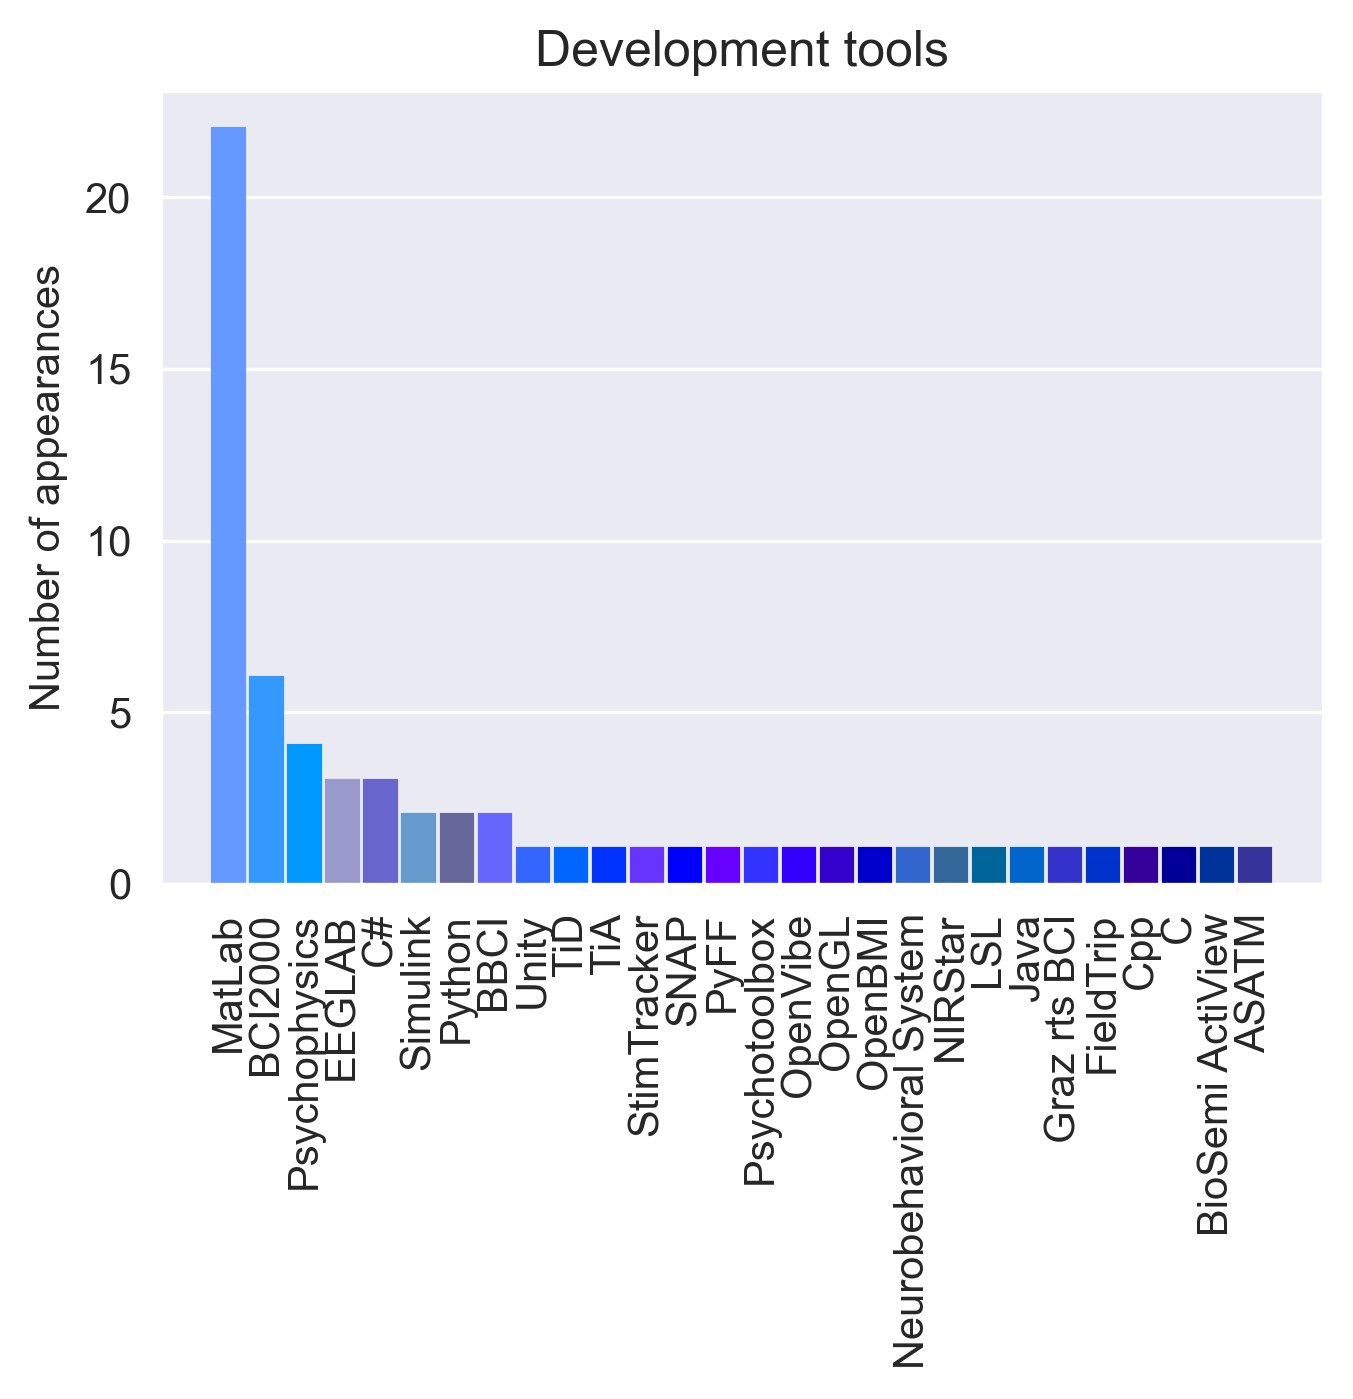
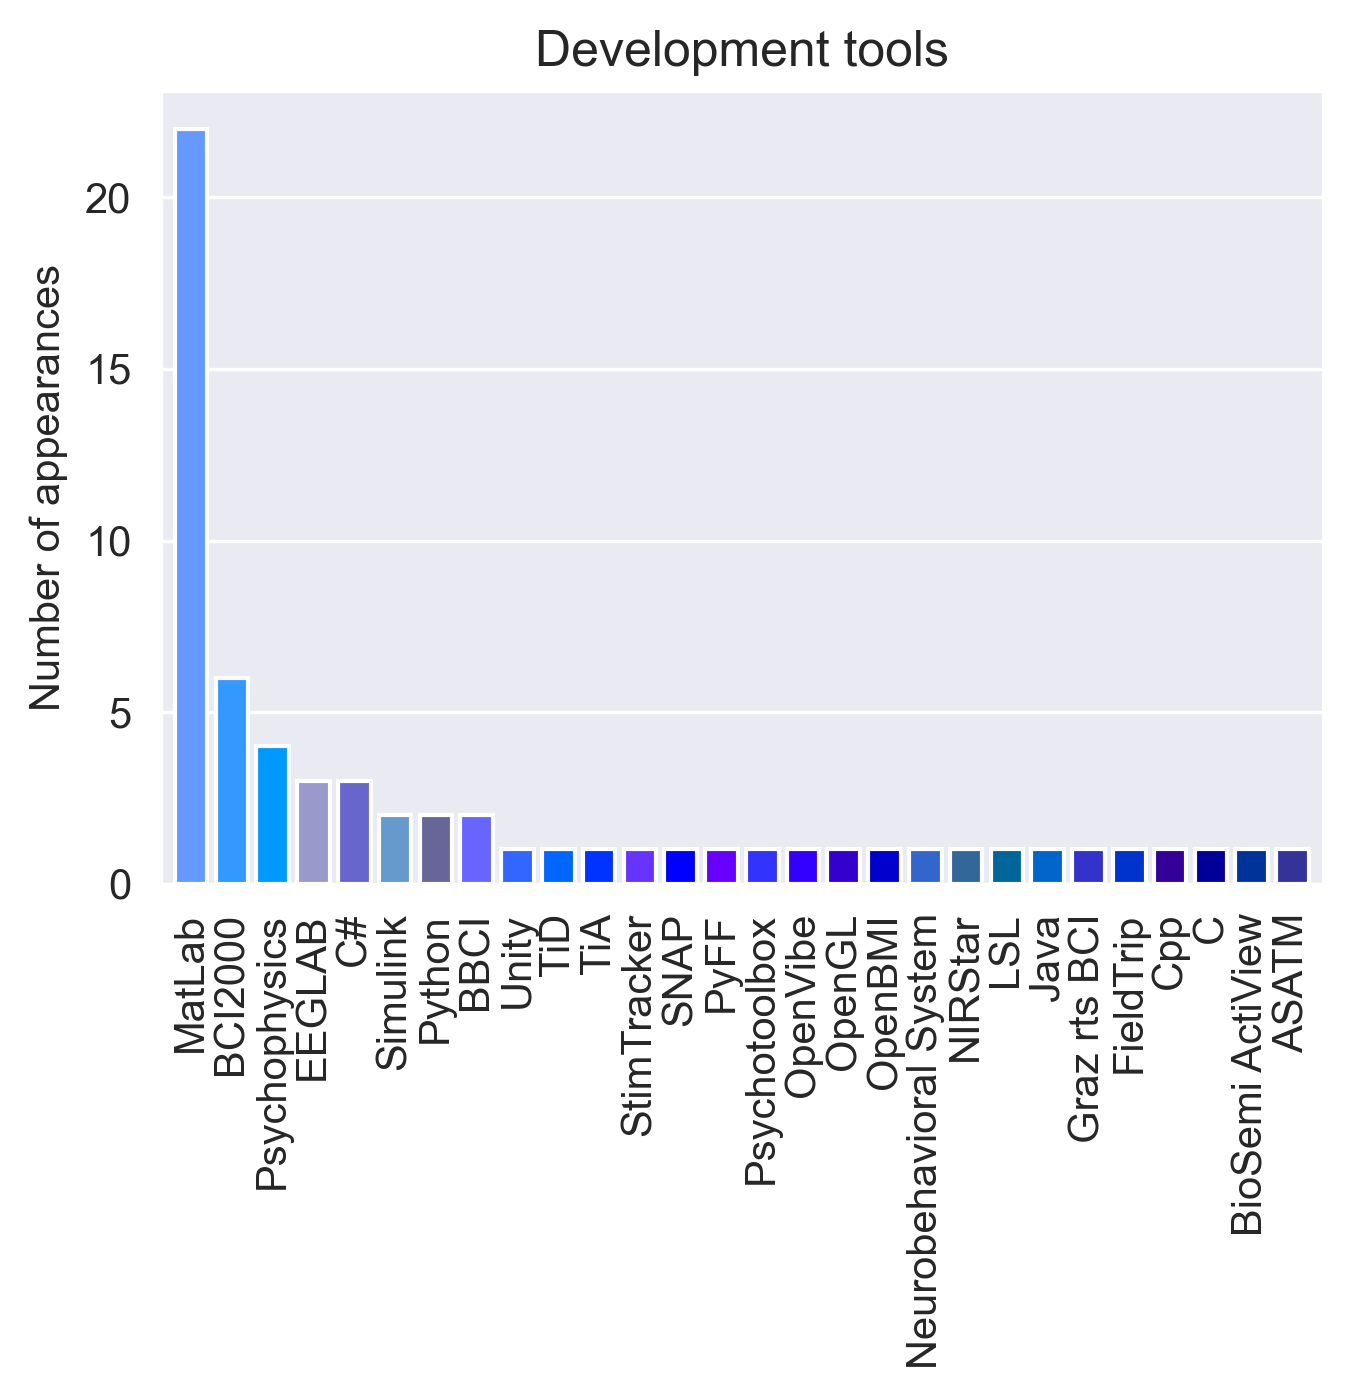
Add graph per input type

Changed region(s): [[0.1242, 0.0922, 0.9623, 0.9836]]

diff --git a/dataframe_stats.py b/dataframe_stats.py
@@ -15,6 +15,7 @@ import os
 import random
 import itertools
 import re
+import math
 
 
 # execfile("ColorMap.py")
@@ -282,14 +283,14 @@ plt.bar(names_soft,
         total_soft,
         alpha = 1,
         color = bar_colors,
-        edgecolor = bar_colors,
+        edgecolor = "white",
         )
 plt.title("Development tools")
 plt.ylabel("Number of appearances")
 plt.xlabel("")
 plt.xticks(rotation=90)
 plt.grid(axis="x")
-# plt.ylim([0,18])
+plt.xlim([-0.75,len(names_soft)-.25])
 # plt.yticks(range(0,18,2))
 plt.show()
 ###############################################################################
@@ -375,6 +376,44 @@ graph2 = sns.stripplot(x = dfc['Num_steps_command_max'][idx_acc2].astype(int),
 graph.set_title("Accuracy per Number of Commands")
 graph.set_ylabel("Accuracy [%]")
 graph.set_xlabel("Maximum number of commands")
+plt.show()
+###############################################################################
+################ Point plot & boxplot acc per individual input ################
+###############################################################################
+Ins_lbl = []
+Ins_val = []
+sns.set_style("darkgrid")
+plt.figure(figsize = (4,3), dpi =300)
+for _, row in df.iterrows():
+    if row['In1_on_class'] != '-' and row['In1_on_class'] != '--' and not(math.isnan(row['In1_on_class'])):
+        Ins_lbl.append(row['In1'])
+        Ins_val.append(row['In1_on_class'])
+    if row['In2_on_class'] != '-' and row['In2_on_class'] != '--' and not(math.isnan(row['In2_on_class'])):
+        Ins_lbl.append(row['In2'])
+        Ins_val.append(row['In2_on_class'])
+# In1 = [list(df['In1']), list(df['In1_on_class'])]
+# In2 = [list(df['In2']), list(df['In2_on_class'])]
+##append lists together and then plot acc for each type of paradigm
+graph = sns.boxplot(x = Ins_lbl,
+                    y = Ins_val,
+                    data = dfc,
+                    color='gray',
+                    boxprops=dict(alpha=1),
+                    linewidth = 1,
+                    palette='Set3')
+g = sns.stripplot(x = Ins_lbl,
+                  y = Ins_val,
+                  alpha = .9,
+                  marker = 'P',
+                  size = 5,
+                  # alpha = .65,
+                  edgecolor = 'black',
+                  linewidth = .5,
+                  palette= 'Set3')    
+g.set_title("Accuracy per individual input type")
+g.set_ylabel("Accuracy [%]")
+g.set_xlabel("")
+plt.xticks(rotation=90)
 plt.show()
 ###############################################################################
 ######################### Box plot acc per Role of Op #########################
